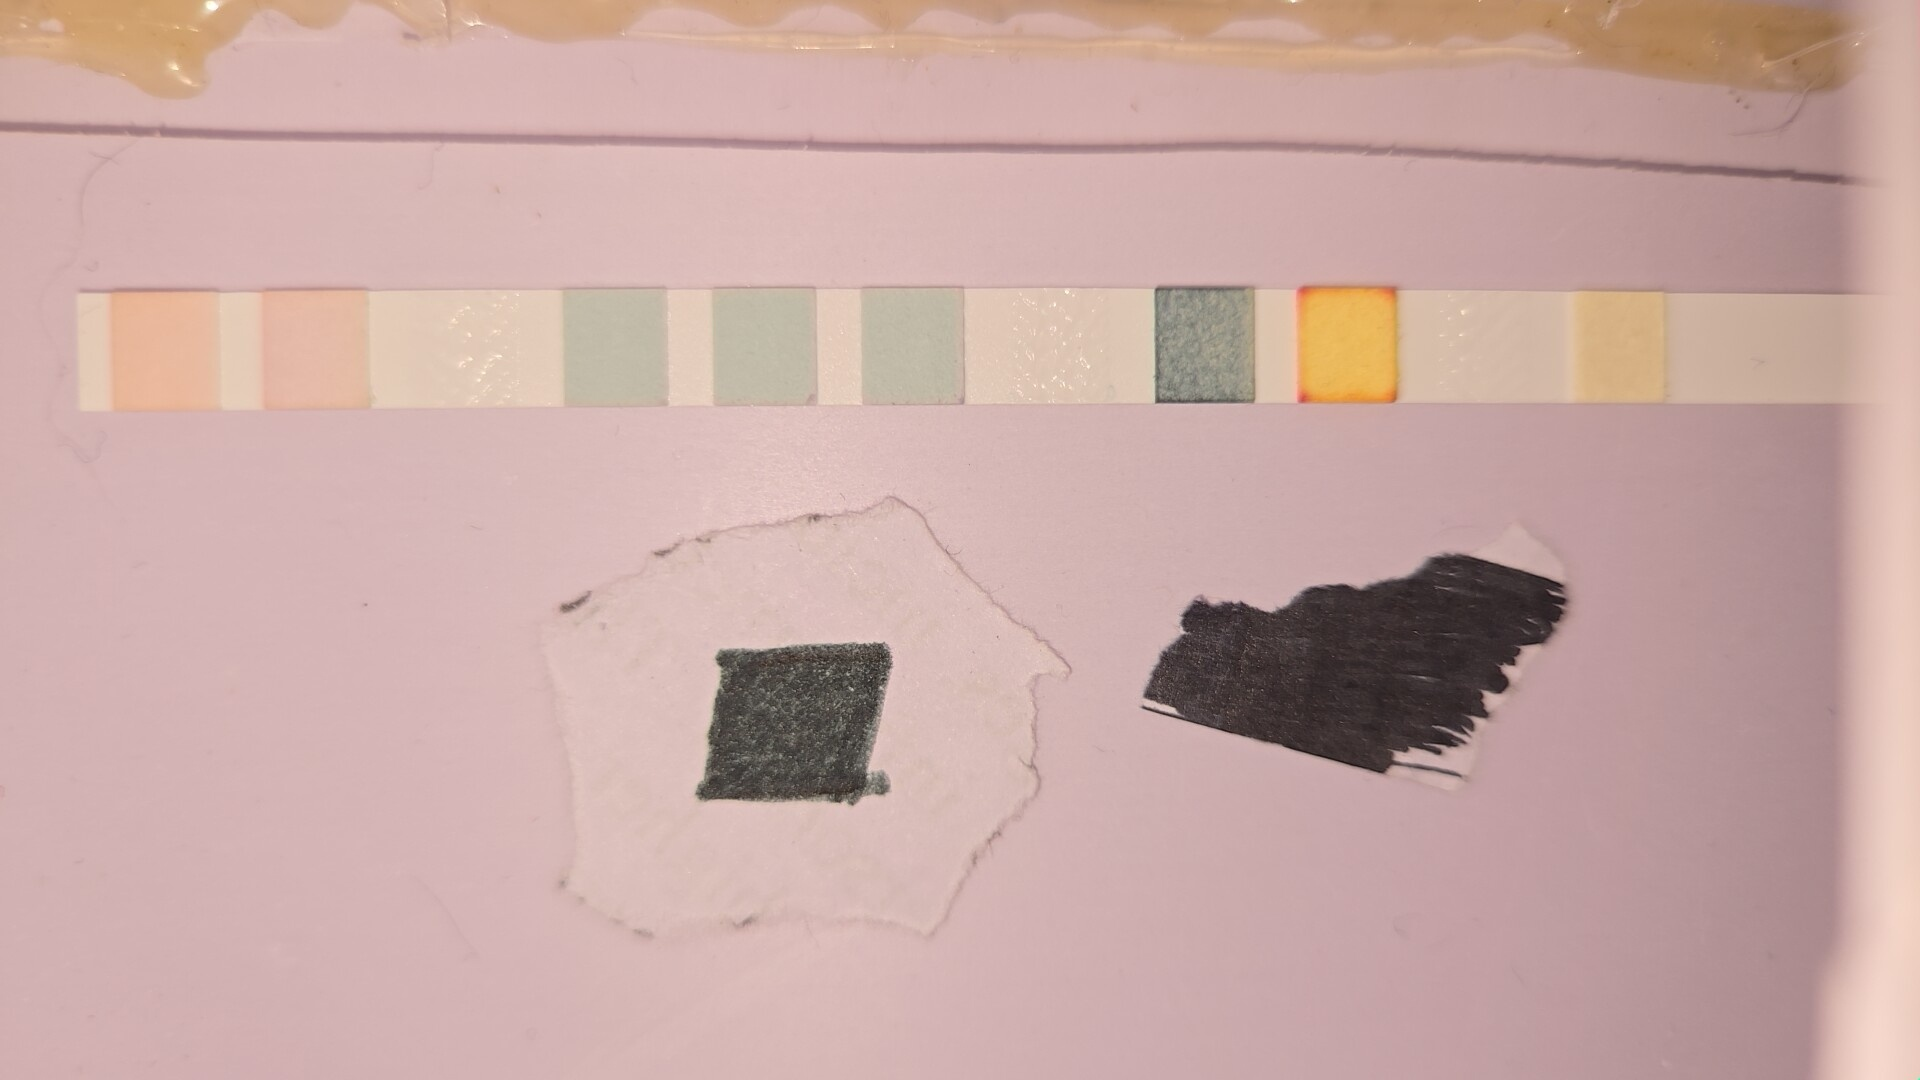
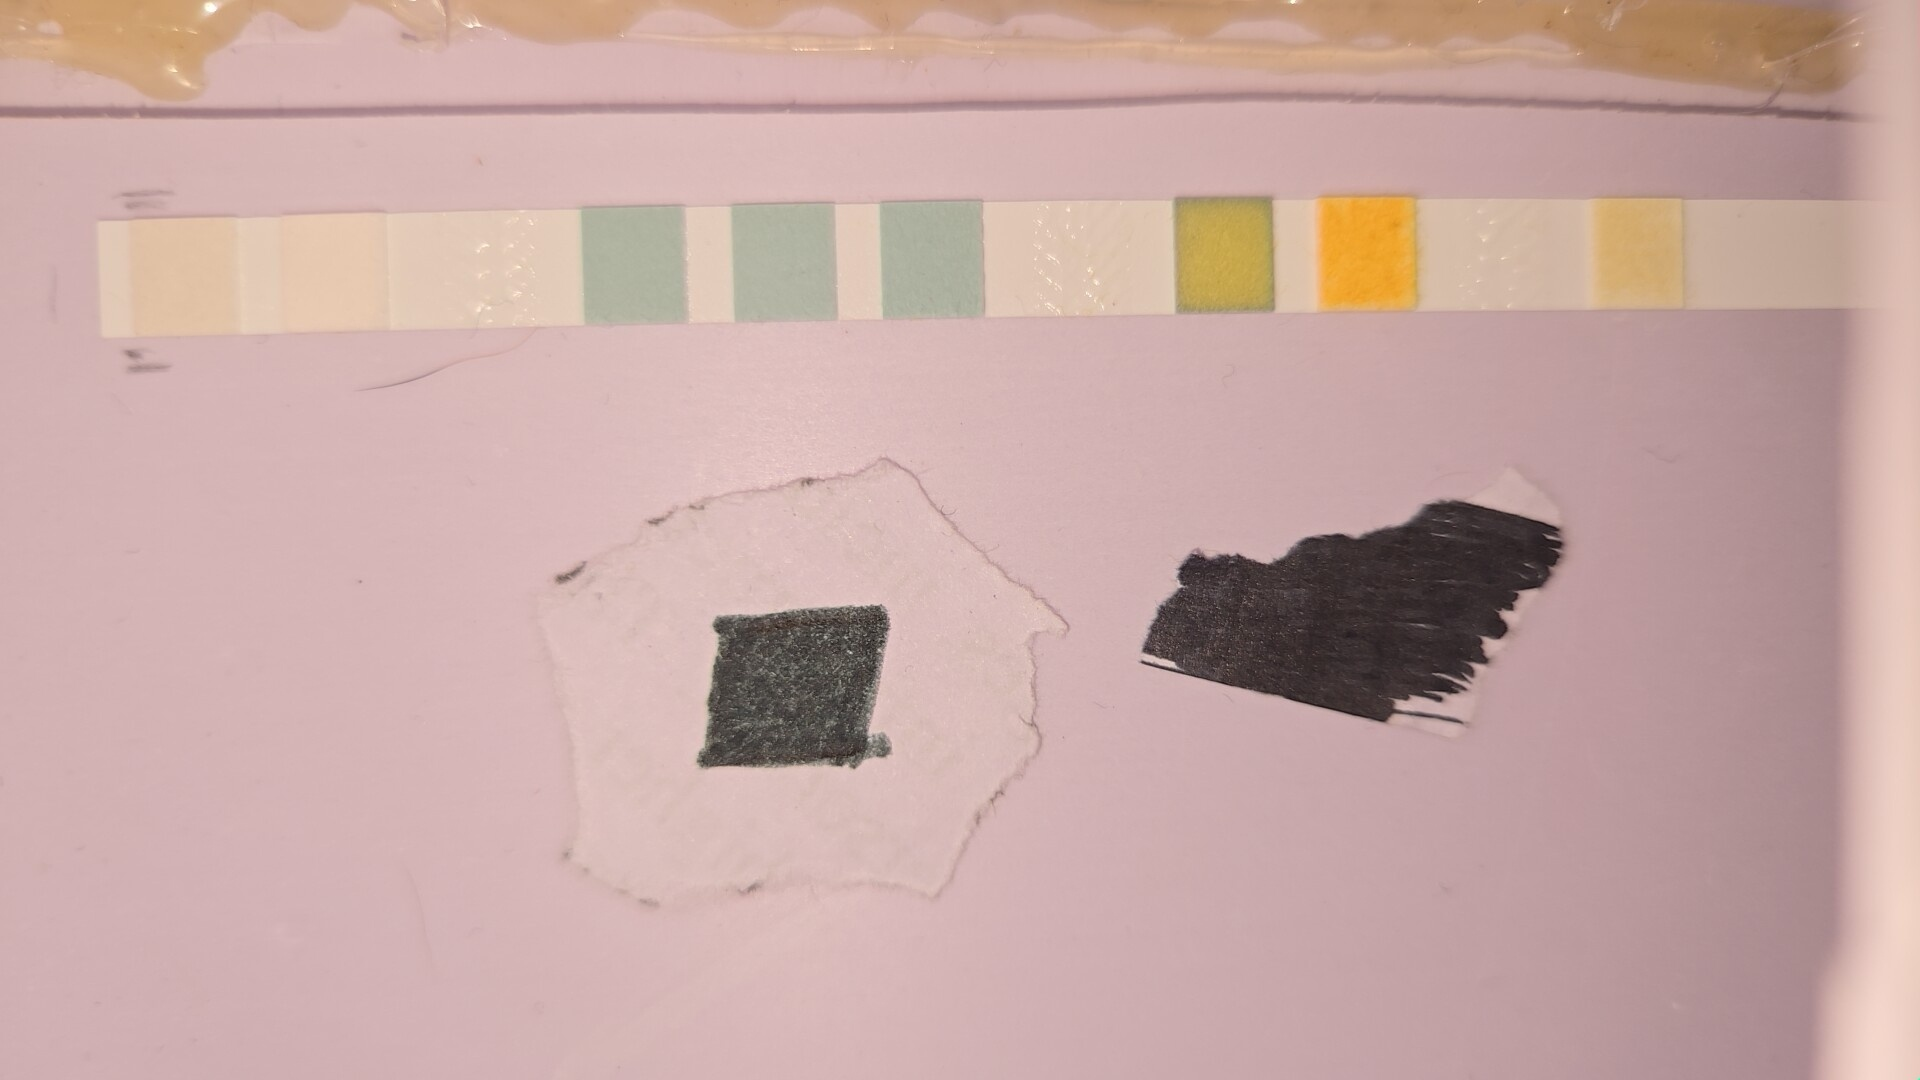
Recalibrate to pencil-mark strip position (ROI a4857fd2); seated tolerance 25 px / search 50 px, frozen into model (D-43)

diff --git a/app/station.py b/app/station.py
@@ -22,6 +22,30 @@ LATEST_MODEL = ROOT / "models" / "model_latest.json"
 FROZEN_MODES = ("test", "degraded", "demo")
 
 
+def roi_locate_params(cfg: dict) -> dict:
+    """ROI re-location settings that decide 'strip not seated' (frozen into the model, D-43)."""
+    r = cfg.get("roi", {})
+    return {k: r.get(k) for k in ("shrink_frac", "shift_tol_px", "search_px", "min_match_score")}
+
+
+def frozen_mismatches(md: dict, cfg: dict, roi_hash_now, camera_hash_now) -> list[str]:
+    """Why the frozen model no longer matches the current setup ([] = it matches)."""
+    probs = []
+    if md.get("roi_hash") != roi_hash_now:
+        probs.append("ROI changed since the model was frozen")
+    if md.get("camera_settings_hash") != camera_hash_now:
+        probs.append("camera settings differ from the model's")
+    if md.get("quality_thresholds") != quality_thresholds(cfg):
+        probs.append("quality thresholds in config.yaml differ from the frozen ones")
+    if "roi_locate" in md and md["roi_locate"] != roi_locate_params(cfg):
+        probs.append("ROI tolerance (roi: in config.yaml) differs from the frozen one")
+    if md.get("read_time_s") != cfg["read_time_s"]:
+        probs.append("read time differs from the frozen one")
+    if md.get("correction_mode", "three_point") != cfg.get("correction_mode", "three_point"):
+        probs.append("colour correction mode differs from the frozen one")
+    return probs
+
+
 class Station:
     def __init__(self, cfg: dict | None = None, start_threads: bool = True):
         self.cfg = cfg or load_config()
@@ -170,17 +194,7 @@ class Station:
             if m is None:
                 items.append(("Model frozen", False, self.model_error or "no frozen model; train and freeze first"))
             else:
-                probs = []
-                if m.d.get("roi_hash") != self.roi_hash:
-                    probs.append("ROI changed since the model was frozen")
-                if m.d.get("camera_settings_hash") != self.camera_hash:
-                    probs.append("camera settings differ from the model's")
-                if m.d.get("quality_thresholds") != quality_thresholds(self.cfg):
-                    probs.append("quality thresholds in config.yaml differ from the frozen ones")
-                if m.d.get("read_time_s") != self.cfg["read_time_s"]:
-                    probs.append("read time differs from the frozen one")
-                if m.d.get("correction_mode", "three_point") != self.cfg.get("correction_mode", "three_point"):
-                    probs.append("colour correction mode differs from the frozen one")
+                probs = frozen_mismatches(m.d, self.cfg, self.roi_hash, self.camera_hash)
                 items.append(("Model frozen", not probs, "; ".join(probs)))
         items.append(("Session open", self.session is not None,
                       "" if self.session is not None else "start a session first"))

diff --git a/tests/test_frozen_match.py b/tests/test_frozen_match.py
@@ -1,0 +1,43 @@
+"""The frozen model must match the current setup before test/degraded/demo reads (D-20, D-43)."""
+import copy
+
+from app.config import load_config, quality_thresholds
+from app.station import frozen_mismatches, roi_locate_params
+
+
+def _model_d(cfg):
+    return {"roi_hash": "r1", "camera_settings_hash": "c1", "quality_thresholds": quality_thresholds(cfg),
+            "roi_locate": roi_locate_params(cfg), "read_time_s": cfg["read_time_s"],
+            "correction_mode": cfg.get("correction_mode", "three_point")}
+
+
+def test_matching_setup_has_no_problems():
+    cfg = load_config()
+    assert frozen_mismatches(_model_d(cfg), cfg, "r1", "c1") == []
+
+
+def test_each_change_is_reported():
+    cfg = load_config()
+    md = _model_d(cfg)
+    assert any("ROI changed" in p for p in frozen_mismatches(md, cfg, "r2", "c1"))
+    assert any("camera" in p for p in frozen_mismatches(md, cfg, "r1", "c2"))
+    for key, val in [(("quality", "black_L_max"), 99.0), (("roi", "shift_tol_px"), 40),
+                     (("roi", "search_px"), 80), (("roi", "min_match_score"), 0.3)]:
+        c2 = copy.deepcopy(cfg)
+        c2[key[0]][key[1]] = val
+        probs = frozen_mismatches(md, c2, "r1", "c1")
+        assert probs, f"changing {key} after freezing must block test mode"
+    c3 = copy.deepcopy(cfg)
+    c3["read_time_s"] = 30
+    assert any("read time" in p for p in frozen_mismatches(md, c3, "r1", "c1"))
+    c4 = copy.deepcopy(cfg)
+    c4["correction_mode"] = "three_point" if cfg.get("correction_mode") == "white_gain" else "white_gain"
+    assert any("correction" in p for p in frozen_mismatches(md, c4, "r1", "c1"))
+
+
+def test_model_without_roi_locate_still_loads():
+    """Models frozen before D-43 have no roi_locate field; they are judged on the other fields."""
+    cfg = load_config()
+    md = _model_d(cfg)
+    del md["roi_locate"]
+    assert frozen_mismatches(md, cfg, "r1", "c1") == []

diff --git a/train.py b/train.py
@@ -28,6 +28,7 @@ from app.config import load_config, phone_base, quality_thresholds, rpath  # noq
 from app.model import save_model, train_all  # noqa: E402
 from app.roi import load_roi, roi_hash  # noqa: E402
 from app.session import SESSIONS_DIR, iter_samples, list_sessions, load_session  # noqa: E402
+from app.station import roi_locate_params  # noqa: E402
 
 
 class TrainError(RuntimeError):
@@ -95,6 +96,7 @@ def build_model(samples, cfg, chart, extra):
     d["created"] = time.strftime("%Y-%m-%d %H:%M:%S")
     d["training_samples"] = samples
     d["quality_thresholds"] = quality_thresholds(cfg)
+    d["roi_locate"] = roi_locate_params(cfg)        # D-43: the 'seated' tolerance is frozen too
     d["read_time_s"] = cfg["read_time_s"]
     d["correction_mode"] = cfg.get("correction_mode", "three_point")
     d["read_offsets_s"] = cfg["read_offsets_s"]

diff --git a/app/readflow.py b/app/readflow.py
@@ -231,7 +231,8 @@ class ReadJob:
             "read_time_s": read_time, "read_offsets_s": offsets,
             "lighting_mode": cfg["lighting_mode"],
             "camera_settings_hash": st.camera_hash, "roi_hash": st.roi_hash,
-            "quality_thresholds": q,
+            "quality_thresholds": q, "roi_locate": {k: cfg["roi"].get(k) for k in
+                                                    ("shrink_frac", "shift_tol_px", "search_px", "min_match_score")},
             "model": None if model is None else {"file": model.path.name if model.path else None,
                                                  "sha256": model.sha, "frozen": model.frozen,
                                                  "primary": model.primary},

diff --git a/DECISIONS.md b/DECISIONS.md
@@ -46,3 +46,4 @@ Choices made while building the Round 3 software, with reasons. The safety rules
 | D-40 | **Single-container ascending series** for 2026-11-20 (see `data/labels/collection_log_20261120.md`). Labels use the volume-corrected actual concentrations (9.84, 25.08, 35.07, 44.84, 55.06, 70.09, 100.11 mg/L). | The team had one container. Reading in ascending order ties time to concentration; this is stated as a limitation. |
 | D-41 | **Strip plan for 22–24 Nov (28 strips, pre-registered in `data/labels/collection_plan_20261122.csv` before any read):** dry 3 (D1, W1, T1; E1–E3 empty), training 14 (0/10/25/35/45/55/100 mg/L × 2, randomised order seed 20261122, each level in its own cup), blind 9 (5 spiked tap 60–100 mg/L, 4 compliant 0–10 mg/L, coded by the chemistry person), degraded 15 reads reusing strips, demo 2. Replaces D-38's one strip per level and RUNBOOK §5's three per level. | The team counted 28 strips. The handover rule cuts unseen standards first, then the conservative pair; training never below 2 per level. Consequence: **no blind block-accuracy or conservative-zone test**; those rows are reported as not tested (LOSO on training data only). Agreed by the team in chat 2026-11-22. |
 | D-42 | **Auto START** (`tools/auto_read.py`): the read is started by software the moment the reference patches and the strip tip are both found and still for 1 s, after the tray was seen without a strip. Empty-tray reads start immediately (`--now`). The quality gate is unchanged; a strip outside ±15 px still starts and is judged "not seated". | The operators only handle strips; waiting for a chat reply before START would add an unknown delay between dip and read. Auto START fires 1–2 s after the tray closes, which is what "press START at once" means in D-26. If the strip tip is more than 30 px off (outside the search window) it does not fire, and the read is started by hand. |
+| D-43 | **Seated tolerance 25 px, search 50 px (was 15 / 30), and frozen into the model** (`roi_locate` in the model; test mode refuses if `roi:` in config.yaml changes; `tests/test_frozen_match.py`). Supersedes the D-39 proposal. | Team request 2026-11-22. Measured first: with the tray stop the tray returned within 0–2 px in 4 of 5 pushes (one at 14–17 px), but hand-placed strips landed 19, 39 and 81 px from the calibration because the team aligns the strip to pencil marks drawn after that calibration. The ROI was then recalibrated to the pencil-mark position (ROI `a4857fd2db689a0d`). Regions are re-located by template matching before sampling, so a 25 px (≈1 mm) shift still samples the pad; the torch light field is uniform at that scale. The 50 px window means larger shifts are measured, not clipped (D1 at −50 px was clipped at −30). Before this change the ROI tolerance was not part of the frozen model; now it is. |

diff --git a/PROGRESS.md b/PROGRESS.md
@@ -167,3 +167,9 @@ None needed.
 - **12:12 App** (`start_app.bat`, adb path read from config): checklist green (Arduino COM7, phone, camera locked, ROI loaded) except "Session open". Screenshot `docs/screenshots/main_startup_newpc.png`.
 - Pilot session `20261120_1120_train` no longer matches the ROI hash, so `train.py` will refuse it (by design; pilot evidence only).
 - **Strips left: 28** (team count, 2026-11-22).
+- **12:18–12:33 Dry session `20261122_1218_dry`** (closed, INTACT): E1–E3 empty → UNKNOWN (no strip); D1 dry strip → UNKNOWN not seated (tray −50 px, strip 23 px off vs tray). See `data/labels/collection_log_20261122.md`.
+- **12:35 Training method:** team chose two cumulative ascending series (distilled water limited). Procedure sheet `data/labels/PROCEDURE_20261122.md`.
+- **12:40 Dock adjusted by the team** (tray stop, pencil marks for the strip). Recalibrated twice: first to the strip against the top wall (ROI `8eb4c2eeced700a1`, empty tray at (0,0) px), then, after placement tests showed the team aligns the strip to its pencil marks (19 / 39 / 81 px off), to the pencil-mark position on the team's instruction (**ROI `a4857fd2db689a0d`**, 12:52; reference with the strip between the marks; empty-tray frame from 12:44). `lock_camera.py --new` again (same hash `231eb85694496d11`, white dE00 0.06 mean) and `--refresh-focus-ref` (596.4).
+- **D-43:** seated tolerance 25 px / search 50 px, frozen into the model (`app/station.py` `frozen_mismatches`, `train.py` `roi_locate`; new `tests/test_frozen_match.py`, 3 tests).
+- **New tool** `tools/auto_read.py` (D-42): starts the read when the strip is seated, so operators only handle strips.
+- App restarted 12:55: checklist green except "Session open".
